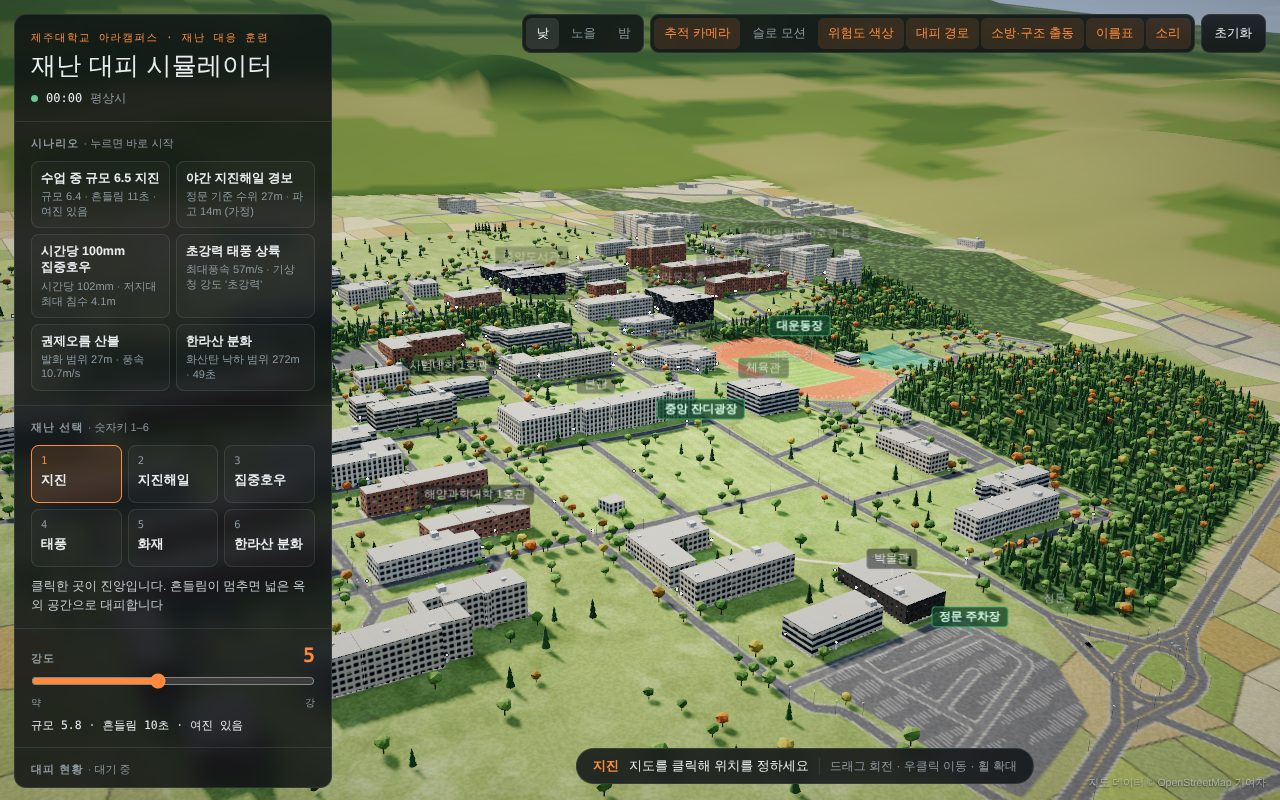
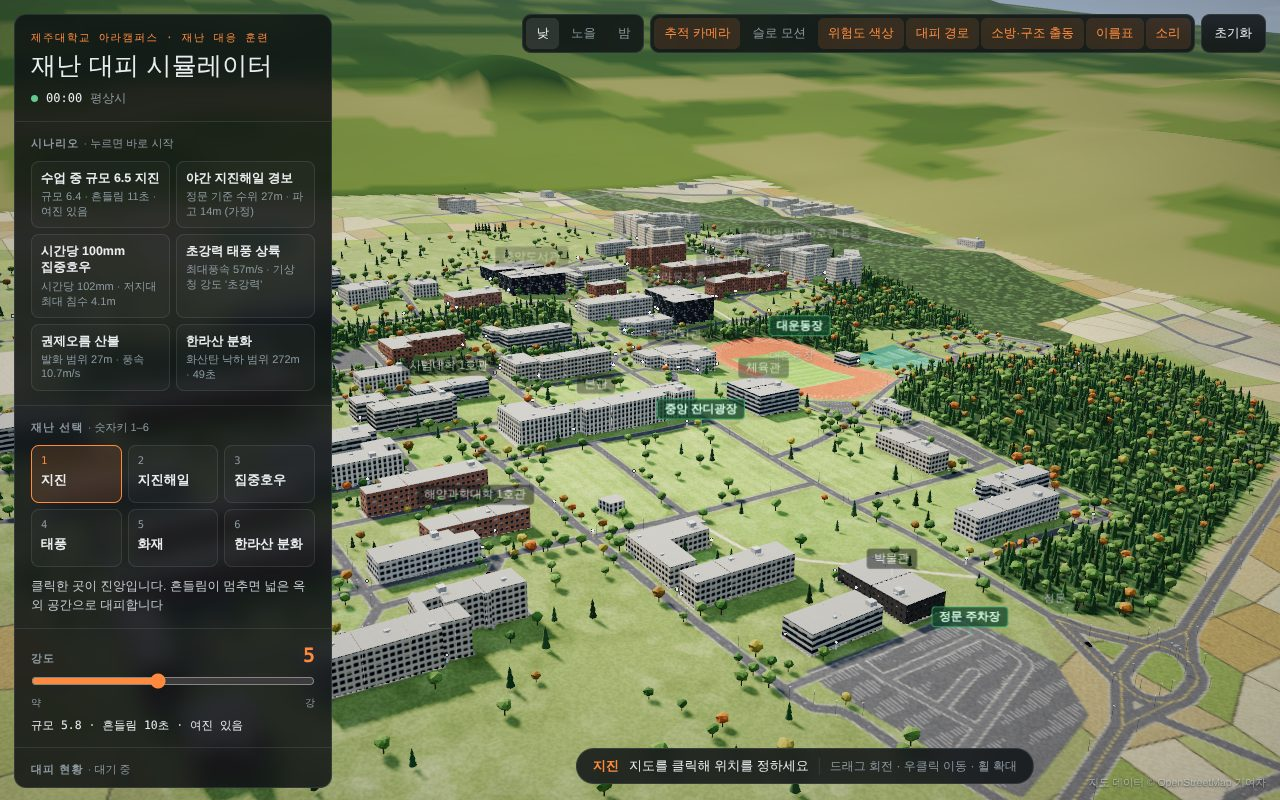
test: 119 대응 브라우저 검사 추가와 README·SKILL.md 설명 갱신
- E2E: 재난 6종 모두 119 신고 접수 로그 확인, 화재 진압, 지진 강도 9 건물 안
  갇힘과 수색·구조, 출동을 끄면 구조·진압이 없는지, 건물 수색 장면 스크린샷
- README: '고립과 119 대응' 절(고립 사유 3종, 재난별 소방차·구조대 임무),
  지표에 진압·점검, 개발 과정 4차, 해결한 문제 2건, 한계(가정값·직선 이동)
- SKILL.md: 고립 사유 3, 모든 재난에서 callRescue, 새 상수와 문서 동기화 규칙

테스트 실행 결과와 스크린샷은 브라우저 테스트가 끝난 뒤 다음 커밋에 반영한다.

diff --git a/README.md b/README.md
@@ -2,7 +2,7 @@
 
 > **제주대학교 아라캠퍼스에서 재난이 나면 어디가 위험하고, 사람들은 어디로 어떻게 대피해야 하며, 대피는 얼마나 걸릴까?**
 
-실제 건물·도로 배치(OpenStreetMap)와 실측 고도로 아라캠퍼스를 3D로 재현하고, 지진·지진해일·집중호우·태풍·화재·한라산 분화 6가지 재난에서 **위험한 건물을 색으로 표시**하고, 캠퍼스 사람들이 **실제 길을 따라 재난에 맞는 대피소로 이동하는 과정과 걸리는 시간**, 물이나 불에 **고립된 사람을 119 구조대가 구조하는 과정**까지 보여주는 웹 시뮬레이터입니다. 설치 없이 브라우저에서 바로 실행됩니다.
+실제 건물·도로 배치(OpenStreetMap)와 실측 고도로 아라캠퍼스를 3D로 재현하고, 지진·지진해일·집중호우·태풍·화재·한라산 분화 6가지 재난에서 **위험한 건물을 색으로 표시**하고, 캠퍼스 사람들이 **실제 길을 따라 재난에 맞는 대피소로 이동하는 과정과 걸리는 시간**, 모든 재난에서 출동하는 **119 소방차·구조대가 불을 끄고, 물에 고립되거나 위험 건물에 갇힌 사람을 구조하는 과정**까지 보여주는 웹 시뮬레이터입니다. 설치 없이 브라우저에서 바로 실행됩니다.
 
 ![지진 대피 화면](docs/screenshots/quake.jpg)
 
@@ -11,8 +11,8 @@
 | ![지진해일](docs/screenshots/tsunami.jpg) | ![집중호우](docs/screenshots/rain.jpg) | ![태풍](docs/screenshots/typhoon.jpg) |
 | **화재** | **한라산 분화** | **평상시 캠퍼스** |
 | ![화재](docs/screenshots/fire.jpg) | ![한라산 분화](docs/screenshots/volcano.jpg) | ![전경](docs/screenshots/overview.jpg) |
-| **119 구조대 (지진해일 고립자 구조)** | | |
-| ![구조대](docs/screenshots/rescue.jpg) | | |
+| **119 구조대 (지진해일 고립자 구조)** | **119 구조대 (지진 때 위험 건물 수색)** | |
+| ![구조대](docs/screenshots/rescue.jpg) | ![건물 수색](docs/screenshots/response.jpg) | |
 
 ---
 
@@ -34,7 +34,7 @@
 
 1. 로딩이 끝나면 왼쪽 위 **시나리오** 버튼 하나를 누릅니다. (예: "수업 중 규모 6.5 지진")
 2. 건물이 **위험도 색**(노랑 주의·주황 경고·빨강 위험)으로 바뀌고, 사람(점)이 **초록 경로 띠**를 따라 **대피소**(초록 기둥)로 이동합니다.
-3. 왼쪽 패널에서 **대피 완료율, 평균·최대 대피 시간, 고립·위험 노출 인원, 구조 인원**을 봅니다. 고립자가 생기면 119 구조대(주황 차량)가 출동합니다.
+3. 왼쪽 패널에서 **대피 완료율, 평균·최대 대피 시간, 고립·위험 노출 인원, 구조 인원**을 봅니다. 재난이 나면 바로 119에 신고되고, 5분(실제 환산) 뒤 **소방차(빨강)와 구조대(주황)**가 도착해 불을 끄고 고립자를 구조합니다.
 4. **대피소 목록**에서 대피소를 꺼 보고 같은 시나리오를 다시 실행하면, 결과가 **실행 기록표**에 쌓여 비교할 수 있습니다.
 5. 직접 해 보려면 재난(숫자키 `1`~`6`)과 강도를 고르고 지도를 클릭합니다. 클릭한 곳이 진앙·발화점이 됩니다.
 
@@ -114,11 +114,29 @@ flowchart LR
 - 보행 속도 1.4m/s(개인차 ±18%). 한 구간에 수용량(길이/3명)보다 많으면 최대 70%까지 느려지고, 많이 지나간 구간일수록 경로 띠가 노랑→빨강이 됩니다.
 - 화면은 **시간을 10배 압축**합니다(화면 1초 = 실제 10초). 패널의 시간은 모두 실제 시간으로 환산한 값입니다.
 
-### 고립과 구조
+### 고립과 119 대응
 
-- **고립**: 서 있는 곳이 0.5m 넘게 잠기거나, 길이 모두 막혀 갈 수 있는 대피소가 없으면 그 자리에 멈춥니다. 물이 0.2m 아래로 빠지거나 길이 다시 열리면 스스로 대피를 이어 갑니다. 한 번이라도 고립된 사람은 끝까지 "고립 경험"으로 기록되고, 고립된 시간도 누적됩니다.
-- **구조**: 첫 고립자가 생기면 119에 구조를 요청하고, 5분(실제 환산) 뒤 구조대 3팀이 정문·후문 중 안전한 쪽으로 도착합니다. 각 팀은 가장 가까운 고립자에게 가서(보트·차량, 4m/s) 1분간 구조한 뒤, 반경 30m 안 고립자를 최대 6명까지 태워 가장 가까운 열린 대피소로 이송하고 다음 고립자에게 갑니다.
-- 고립자가 남아 있고 구조대가 활동 중이면 실행이 끝나지 않습니다. "소방·구조 출동"을 끄면 구조 없이 진행됩니다.
+**고립**은 세 가지입니다. 한 번이라도 고립된 사람은 나중에 빠져나오거나 구조돼도 끝까지 "고립 경험"으로 기록되고, 고립된 시간도 누적됩니다.
+
+| 고립 사유 | 언제 | 어떻게 풀리나 |
+|---|---|---|
+| 물 | 서 있는 곳이 0.5m 넘게 잠김 | 물이 0.2m 아래로 빠지면 스스로 대피, 또는 구조 |
+| 길 막힘 | 물·불로 길이 모두 막혀 갈 수 있는 대피소가 없음 | 길이 다시 열리면 스스로 대피, 또는 구조 |
+| 건물 안 | 몸 보호·반응 대기 중에 있던 건물이 위험 등급 3이 되거나 불이 붙음 (그 건물에서 출발할 사람의 20%) | **구조대만** 꺼낼 수 있음 |
+
+**119 대응**: 재난이 시작되면 바로 신고가 들어가고, 5분(실제 환산, 가정) 뒤 소방차와 구조대 3팀이 정문·후문 중 물·불이 없는 쪽으로 도착합니다.
+
+| 재난 | 소방차 | 구조대 |
+|---|---|---|
+| 지진 | 가스 화재 진압 | 위험 건물 수색·구조, 위험 건물 안전 점검 |
+| 지진해일·호우 | (불이 없으면 대기) | 침수 고립자 구조 |
+| 태풍 | 낙뢰 화재 진압 | 갇힘·고립자 구조, 위험 건물 안전 점검 |
+| 화재 | 건물·수목 화재 진압 | 불에 갇힌 사람 구조 |
+| 한라산 분화 | 화산탄 화재 진압 | 갇힘 구조, 위험 건물 안전 점검 |
+
+- **구조대**는 고립자 구조 → 위험 건물(등급 2 이상) 안전 점검·출입 통제 → 대기 순으로 일합니다. 가장 가까운 고립자에게 가서(4m/s) 1분간 구조하고(건물 안 수색은 2분), 반경 30m 안 고립자를 최대 6명까지 태워 가장 가까운 열린 대피소로 옮깁니다.
+- **소방차**는 최대 3대가 가장 가까운 건물·수목 화재로 가서 물을 뿌립니다. 주변 나무를 적셔 불이 번지지 않게 막습니다.
+- 고립자가 남아 있고 구조대가 활동 중이면 실행이 끝나지 않습니다. **"소방·구조 출동"을 끄면** 신고·출동 없이 진행되어, 같은 재난을 켜고 끈 결과를 비교할 수 있습니다. 사망 상태는 만들지 않았습니다. 위험은 고립·위험 노출·구조 대기 시간으로 나타냅니다.
 
 ### 결과 지표
 
@@ -126,11 +144,12 @@ flowchart LR
 |---|---|
 | 대피 완료율 | 대피소에 도착한 사람 / 전체 |
 | 평균·최대 대피 시간 | 재난 발생부터 도착까지 (실제 시간 환산) |
-| 고립 중 | 지금 0.5m 넘는 물에 갇혔거나 갈 수 있는 대피소가 없는 사람 (실행 기록표의 "고립"은 끝까지 고립된 인원) |
+| 고립 중 | 지금 물·길 막힘·건물 안 중 하나로 고립된 사람 (마우스를 올리면 사유별 인원, 실행 기록표의 "고립"은 끝까지 고립된 인원) |
 | 고립 경험 | 한 번이라도 고립된 사람. 나중에 스스로 빠져나오거나 구조돼도 남음 |
 | 평균 고립 | 고립 경험자가 고립 상태로 보낸 시간의 평균 |
 | 구조 | 구조대가 태워 대피소로 옮긴 사람, 평균 구조 대기(처음 고립된 때부터 구조대가 태울 때까지) |
 | 위험 노출 | 대피 중 0.2m 넘는 물이나 불 12m 이내를 지난 사람 |
+| 진압·점검 | 소방차가 끈 건물 화재 수(수목은 그루 수), 구조대가 안전 점검한 위험 건물 수 |
 
 모두 도착하거나(구조 포함), 구조대가 없을 때 남은 사람이 모두 고립되거나, 30분(실제 환산)이 지나면 한 번의 실행이 끝나고 **실행 기록표**에 한 줄이 쌓입니다.
 
@@ -273,6 +292,7 @@ PASS  실행 중 스크립트 오류 없음
 2. **방향 전환**: 파괴를 보여주는 체험은 과제로서 의미가 약하다고 판단해, "어디가 위험하고 어디로 대피하는가"를 보여주는 도구로 바꾸기로 하고 [설계 문서](docs/DESIGN.md)를 먼저 작성
 3. **2차 (11~19단계)**: 공격·비현실 시나리오 제거, 집중호우 추가, 위험도 평가, 보행 그래프와 대피 경로, 대피 시뮬레이션, 시나리오·행동요령·실행 기록, 테스트·분석
 4. **3차 (20~22단계)**: 고립됐다가 물이 빠져 걸어 나온 사람이 결과에 "무사히 도착"으로만 남는 문제를 발견해, 고립 경험·고립 시간을 누적 기록하고 119 구조대 모델을 추가
+5. **4차 (23~26단계)**: 구조대가 물 고립 때만 나와 지진·태풍·화산에서는 보이지 않는 문제를 고쳐, 모든 재난에서 119가 바로 출동하고 재난별로 진압·수색·안전 점검을 하도록 바꾸고, 위험 건물 안에 갇히는 고립 유형을 추가
 
 ### 개발 중 해결한 문제
 
@@ -286,6 +306,8 @@ PASS  실행 중 스크립트 오류 없음
 | 파일로 열면 클릭이 안 됨 | 투명해진 로딩 화면이 지도를 덮음 | 로딩 완료 시 `hidden` 처리 |
 | 고립됐다 빠져나온 사람이 "도착"으로만 기록 | 고립을 현재 상태로만 셈 | 고립 경험·누적 고립 시간을 따로 기록 |
 | 구조대가 도착하면 이미 물이 빠져 있음 | 최고 수위 유지가 8초(실제 1분 남짓)로 너무 짧음 | 지진해일 45초·호우 50초(실제 7~8분)로 늘림 |
+| 지진·태풍·화산에서 구조대가 안 보임 | 고립자가 생길 때만 출동, 고립은 거의 물에서만 생김 | 재난 직후 출동, 안전 점검 임무와 건물 안 갇힘 추가 |
+| 화재 재난에서 소방차가 하나도 못 끔 | 5분 뒤 도착하는 동안 불이 다 타고, 소방차는 건물 불만 끄고 느렸음 | 구조대와 같은 속도, 수목 화재 진압·주변 나무 적시기 |
 
 ### SKILL.md
 
@@ -298,6 +320,7 @@ PASS  실행 중 스크립트 오류 없음
 - 건물 높이는 추정값이고, 건물 내부 계단·복도는 표현하지 않습니다(건물 출입구에서 출발).
 - 보행 그래프는 OSM에 그려진 길만 씁니다. 지도에 없는 샛길·잔디밭 가로지르기는 반영되지 않습니다.
 - 시간은 10배 압축이고 반응 시간은 단순 분포입니다.
+- 119 도착 시간 5분, 건물 안 갇힘 20%, 구조·수색 시간은 가정값입니다. 소방차·구조대는 도로가 아니라 직선으로 이동합니다.
 - 구조대는 길을 따르지 않고 직선으로 이동하며(보트·차량 가정), 출동 시간과 팀 수는 고정값입니다. 사망·부상은 다루지 않고 고립·위험 노출로만 나타냅니다.
 
 ## 12. 문제 해결
